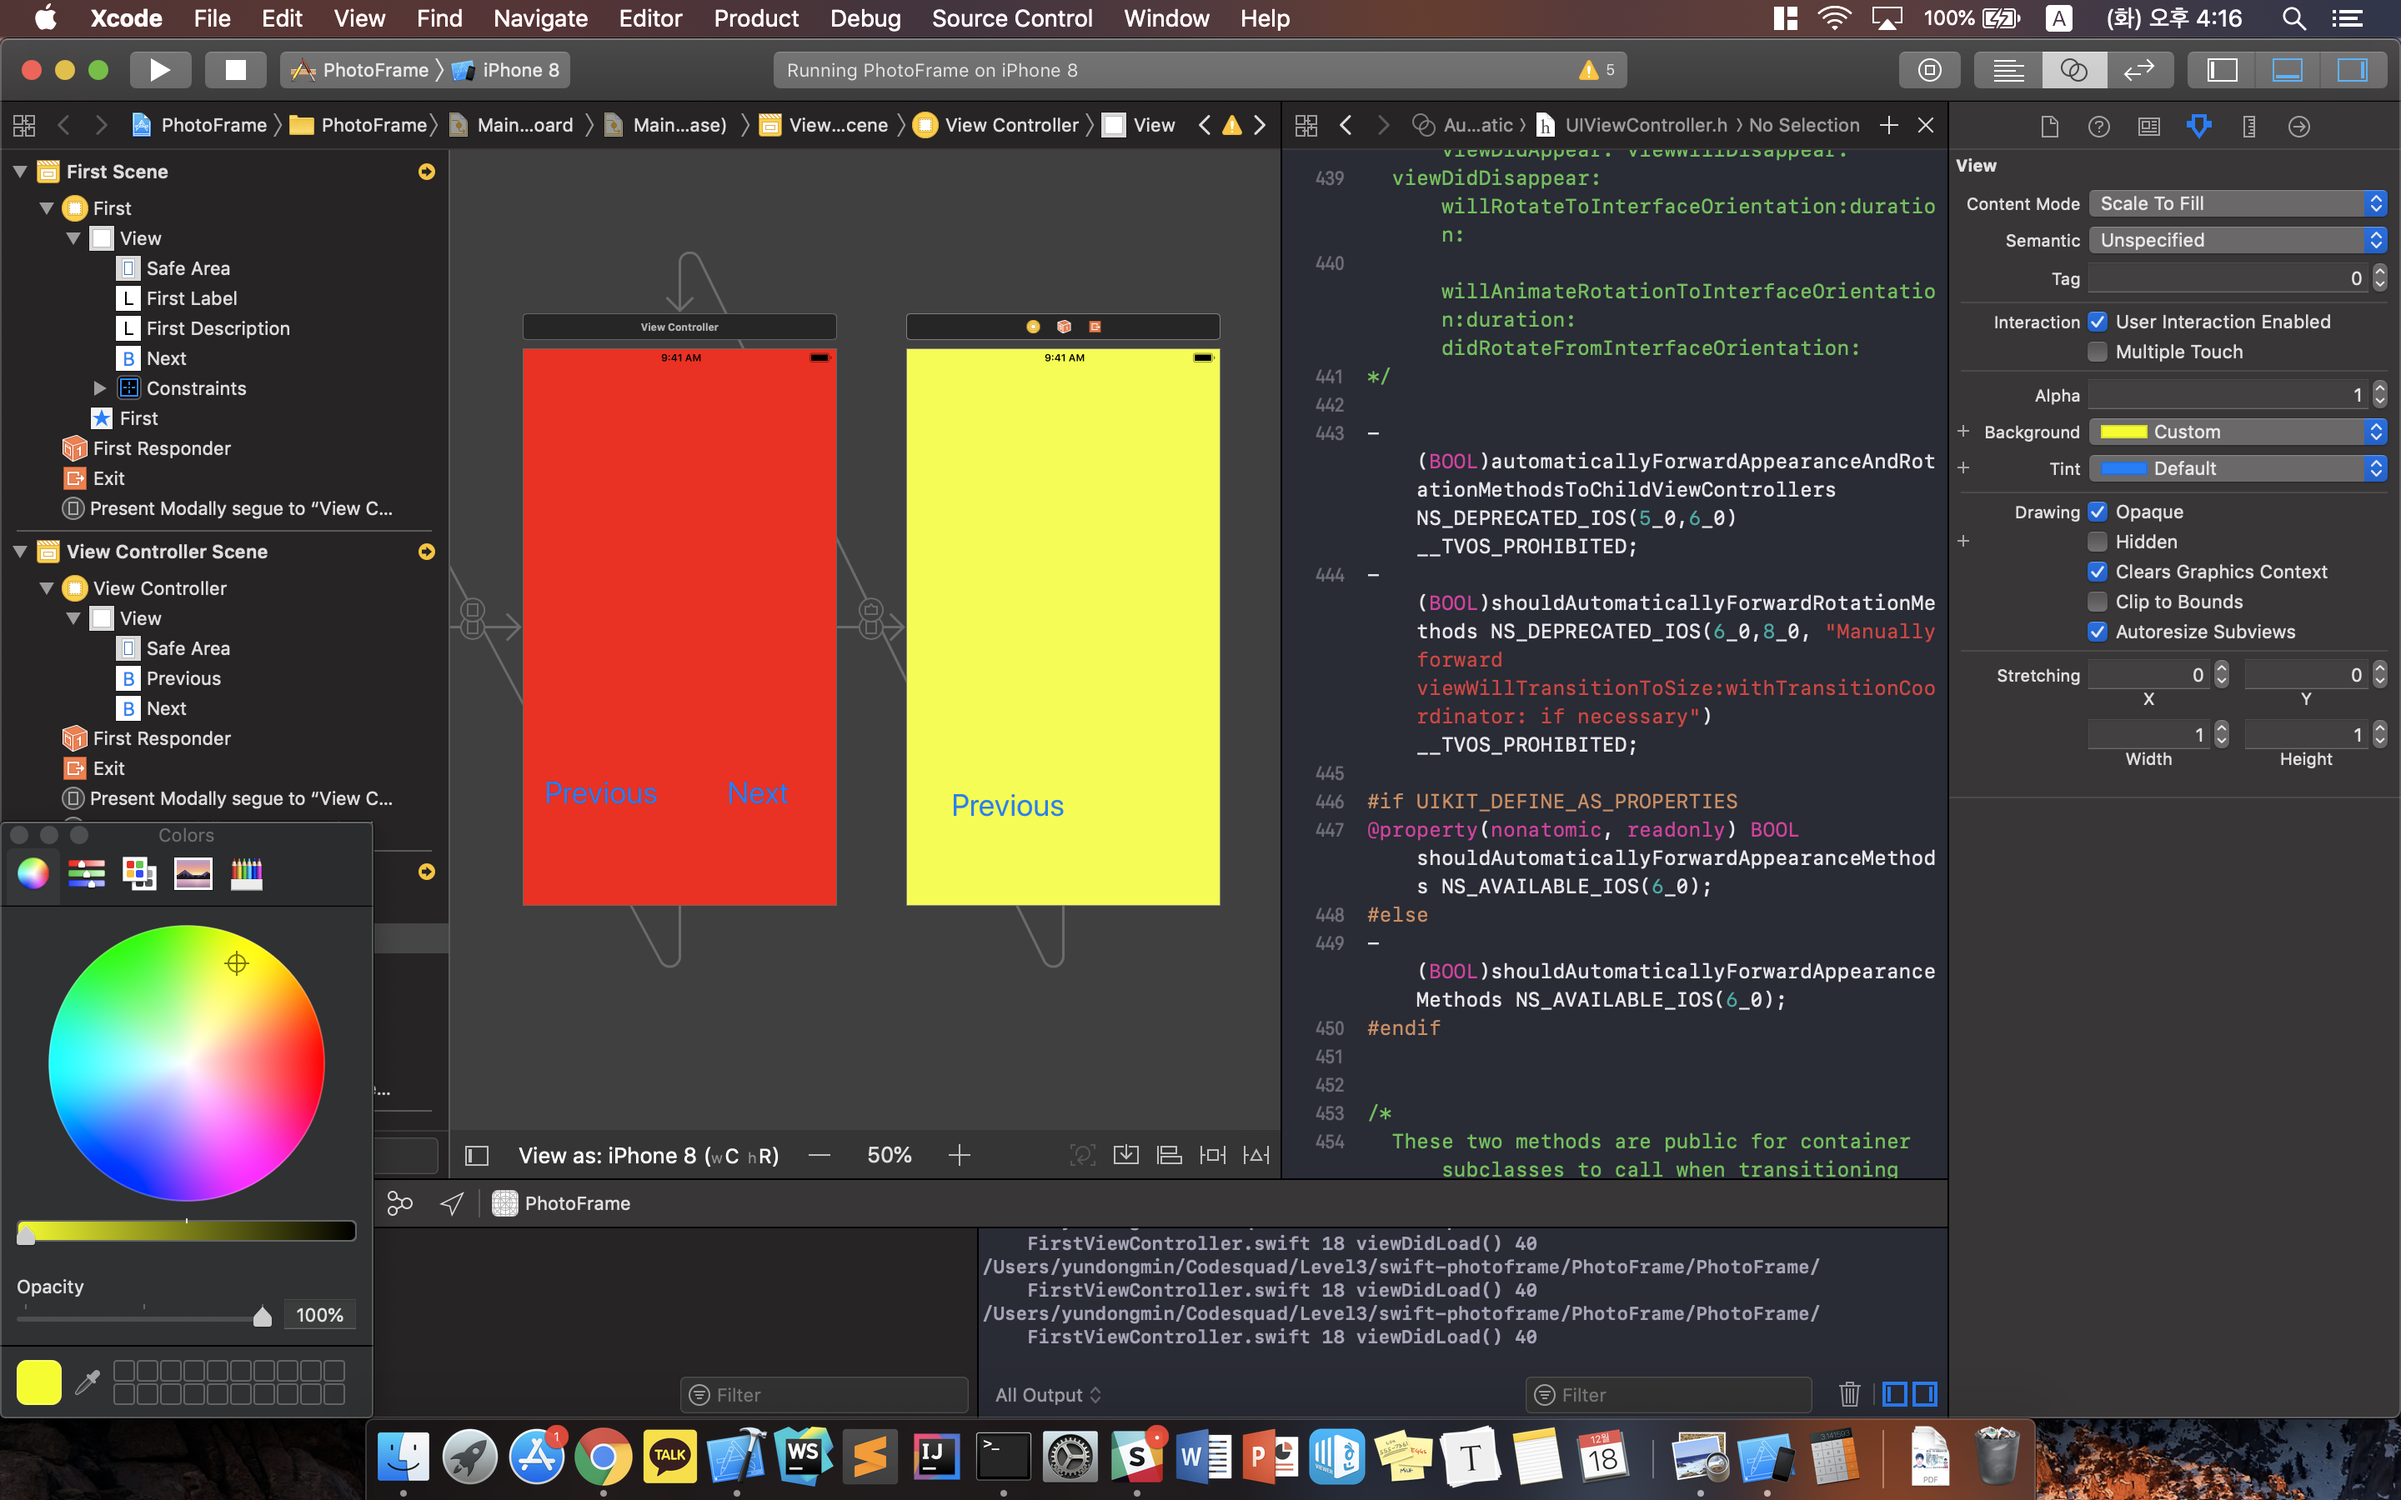
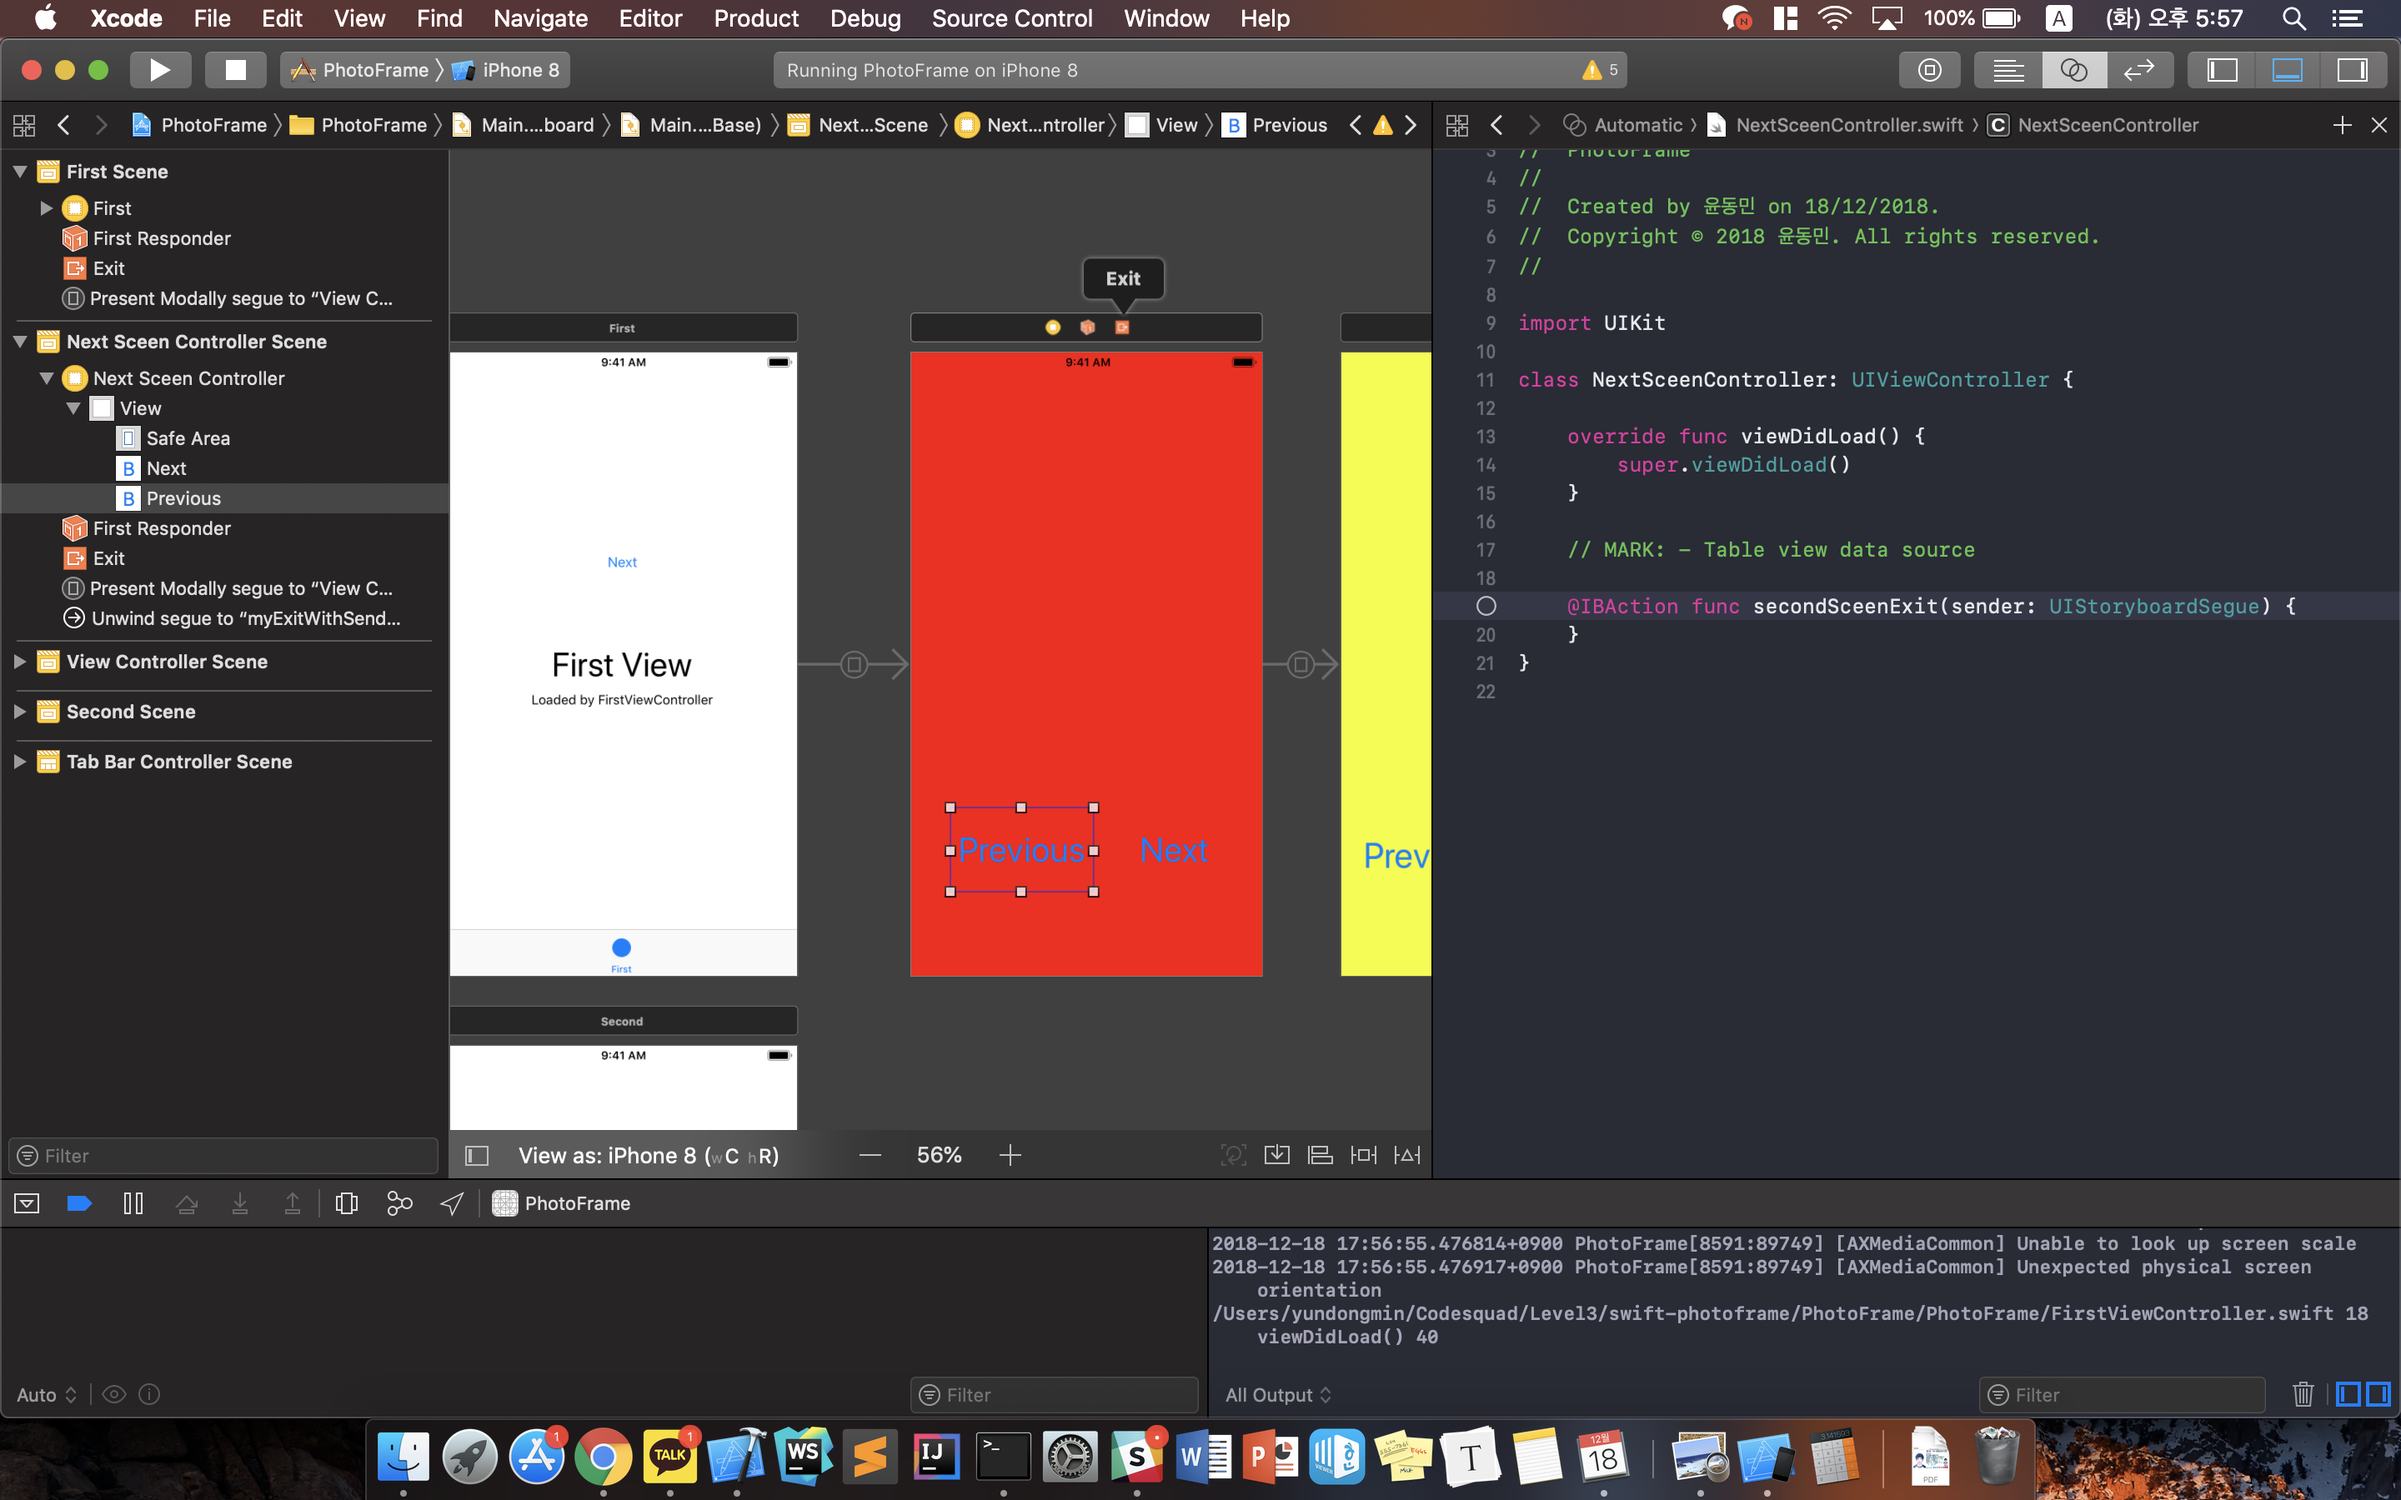
Revise Previous Sceen transition way

diff --git a/PhotoFrame/PhotoFrame/NextSceenController.swift b/PhotoFrame/PhotoFrame/NextSceenController.swift
@@ -1,0 +1,21 @@
+//
+//  NextSceenController.swift
+//  PhotoFrame
+//
+//  Created by 윤동민 on 18/12/2018.
+//  Copyright © 2018 윤동민. All rights reserved.
+//
+
+import UIKit
+
+class NextSceenController: UIViewController {
+
+    override func viewDidLoad() {
+        super.viewDidLoad()
+    }
+
+    // MARK: - Table view data source
+
+    @IBAction func secondSceenExit(sender: UIStoryboardSegue) {
+    }
+}

diff --git a/PhotoFrame/PhotoFrame/FirstViewController.swift b/PhotoFrame/PhotoFrame/FirstViewController.swift
@@ -34,5 +34,7 @@ class FirstViewController: UIViewController {
         self.firstDescription.textColor = UIColor.red
     }
     
+    @IBAction func myExit(sender: UIStoryboardSegue) {
+    }
 }
 

diff --git a/README.md b/README.md
@@ -55,6 +55,11 @@
 
 * 연결된 화살표를 누르면 화면전환 효과를 설정할 수 있다.
 
-![tenScreen](./10.png)
+![tenScreen](./11.png)
 
-* 새로 만든 View에도 버튼을 추가하여 화면 간 전환이 가능하도록 구현한다.
+* Segue를 통해 화면을 전환할 때에는 항상 새로운 ViewController 객체를 생성한다.
+* 이전 화면으로 전환을 위해서 이전 화면에 IBAction을 스크린샷과 같이 구현한다.
+
+![elevenScreen](./10.png)
+
+* `Control + 드래그`를 사용하여 Exit로 드래그한다.
